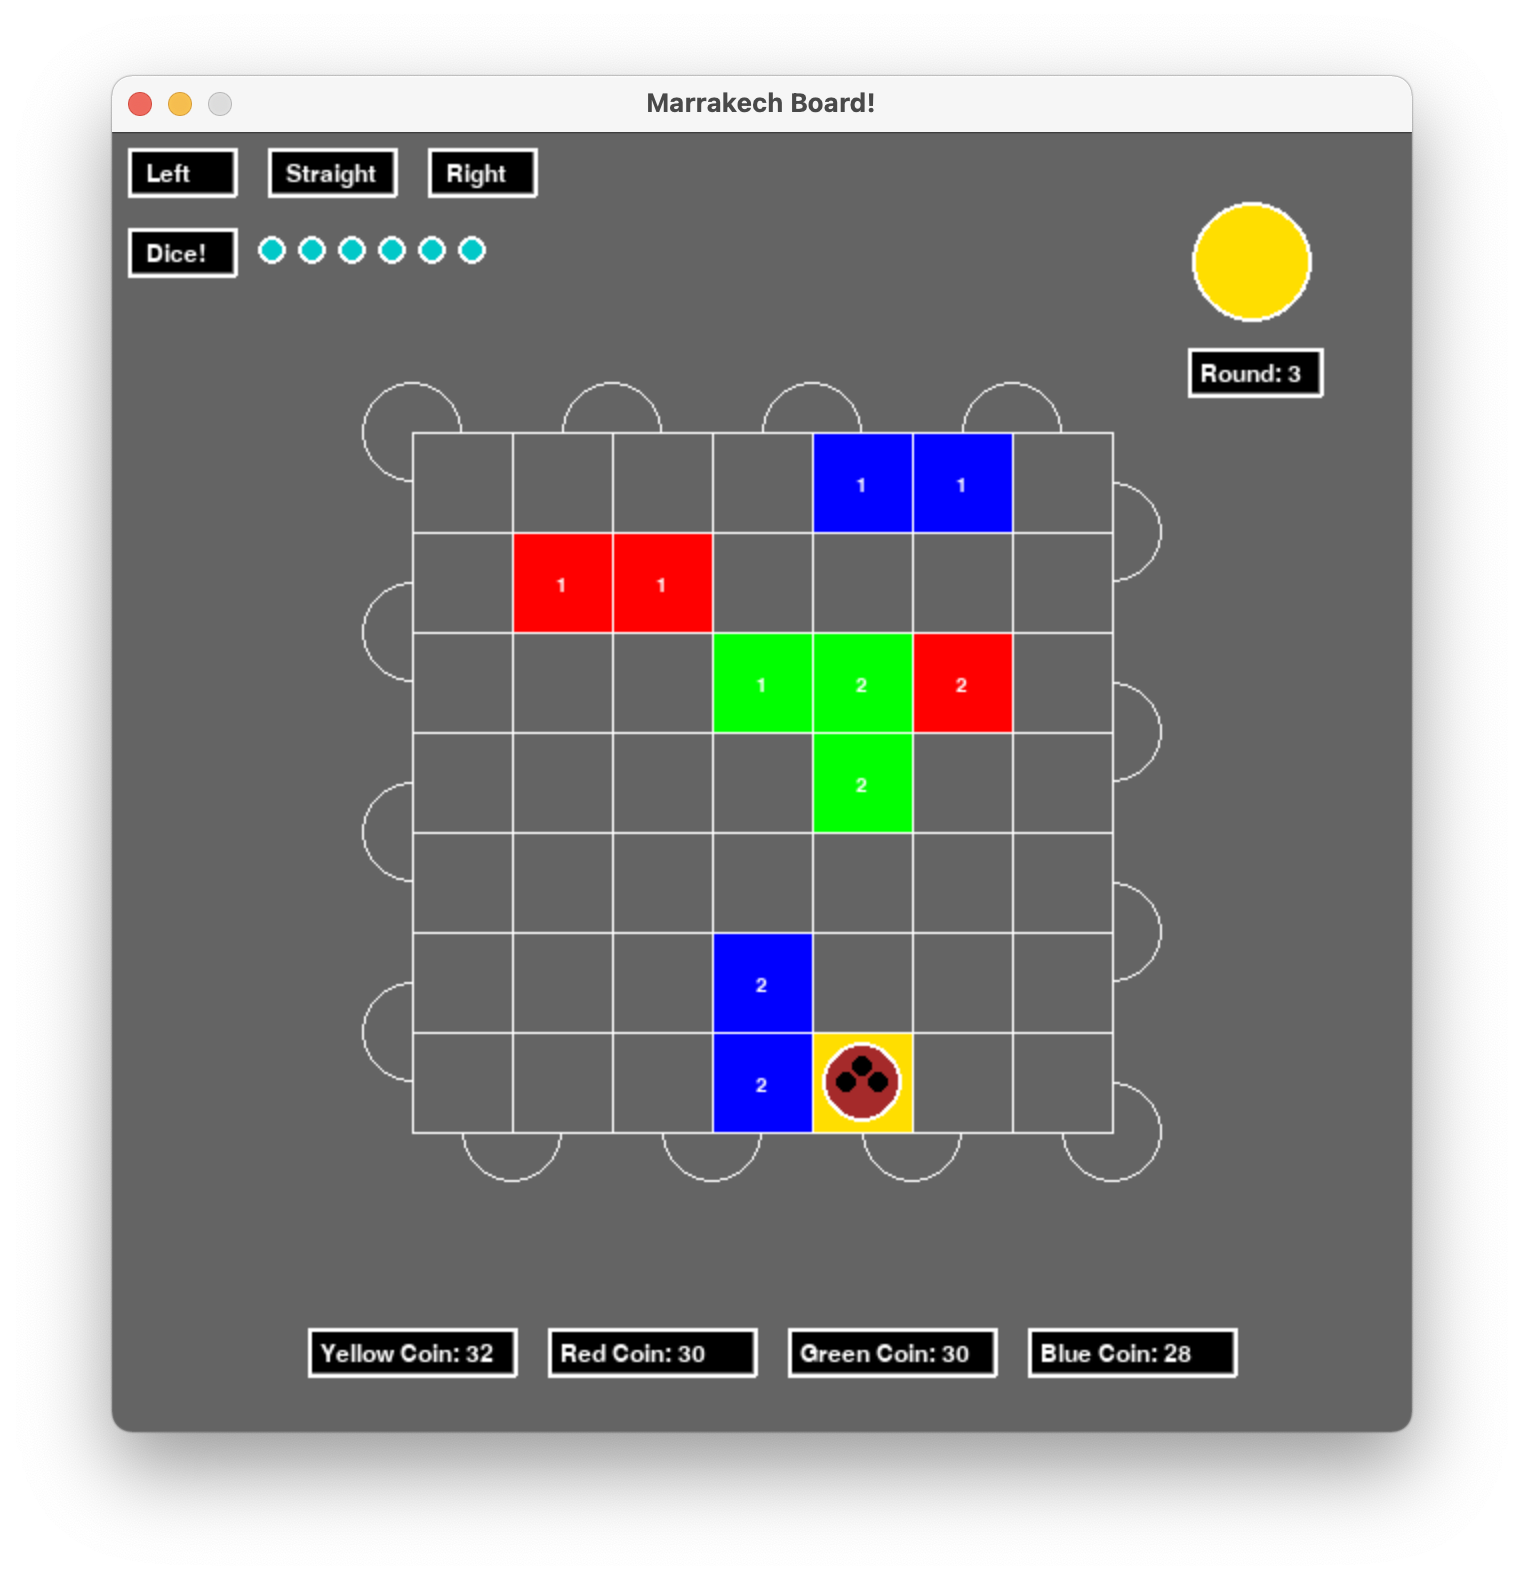
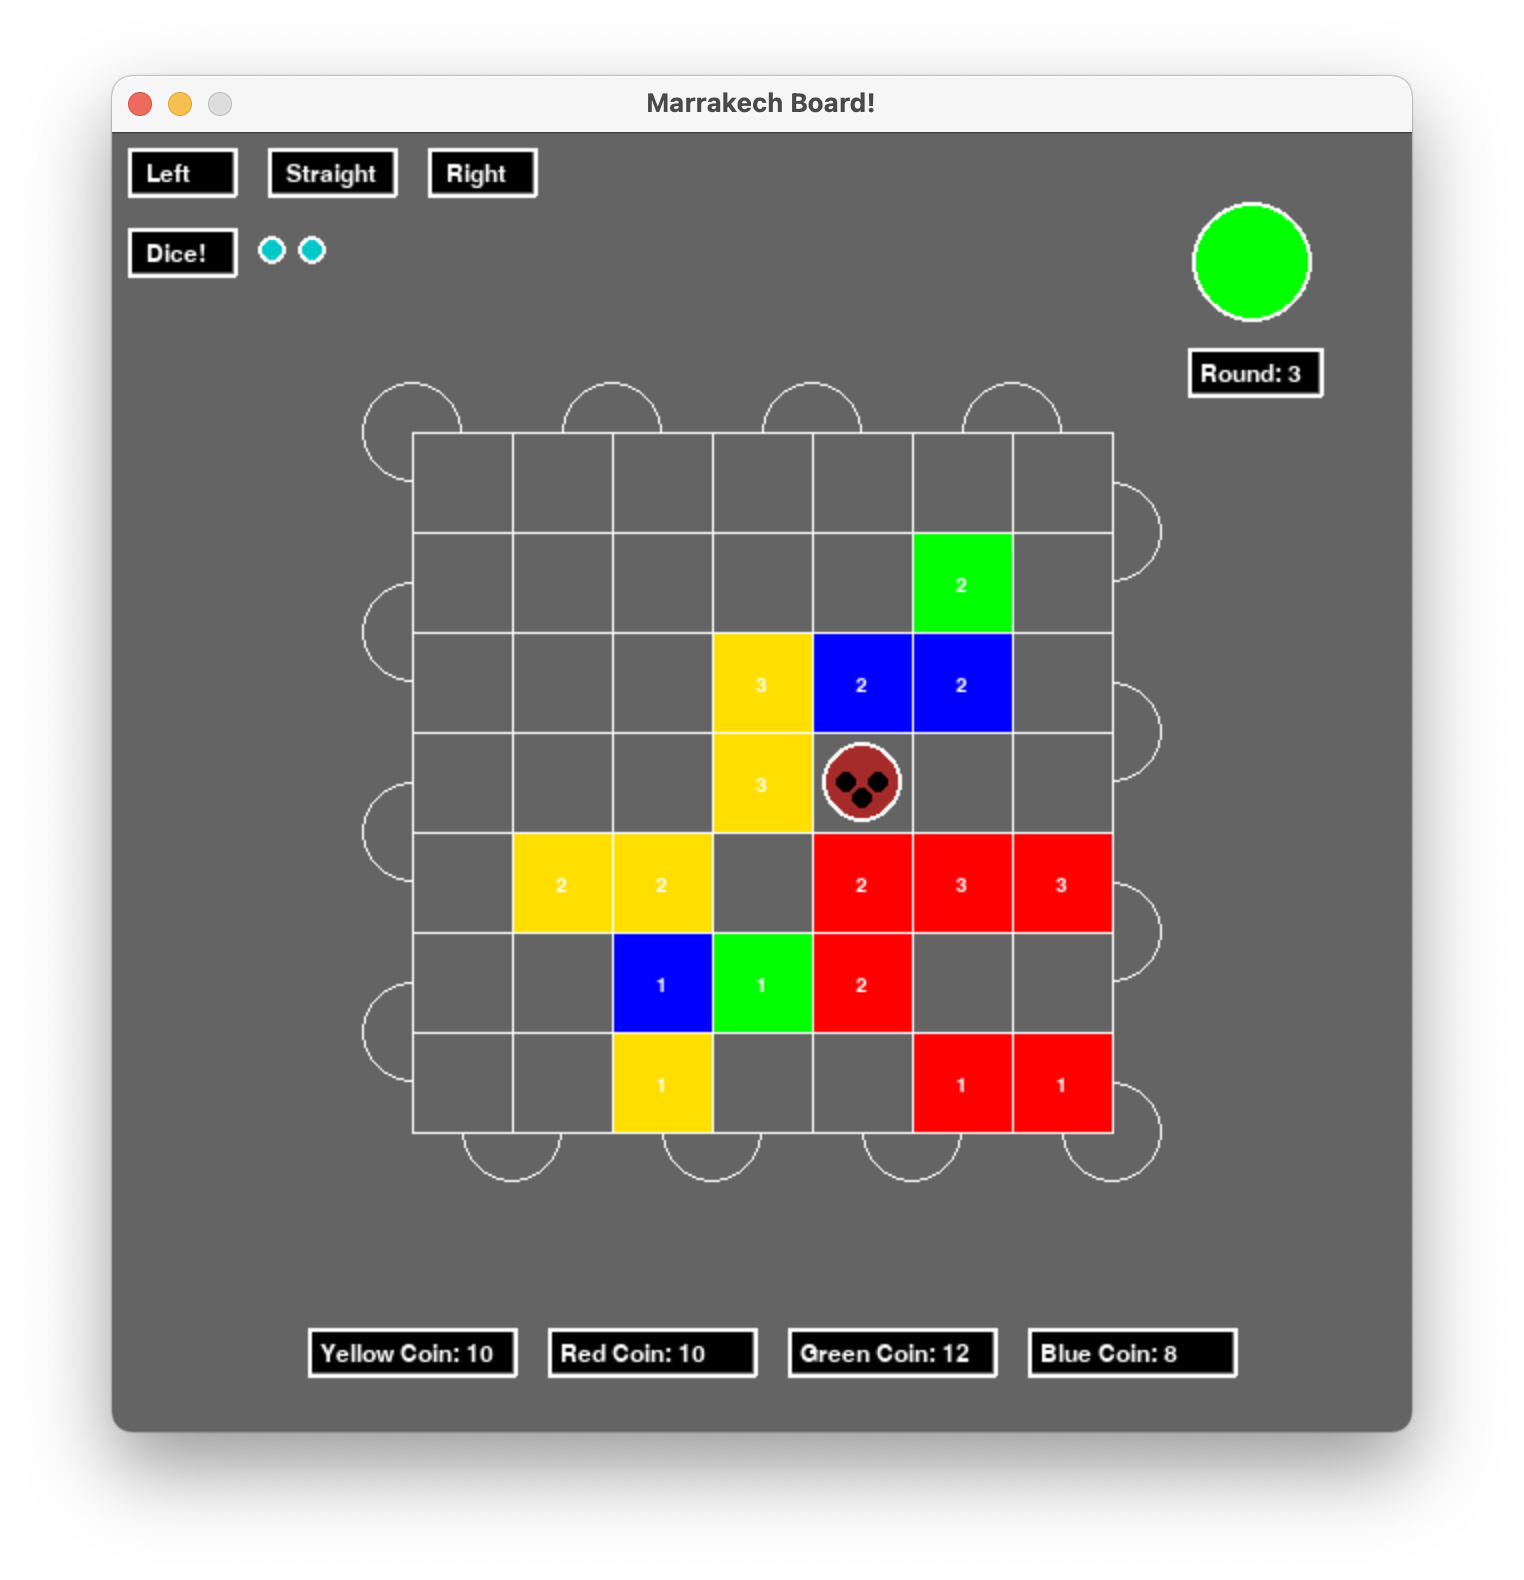
Update rules

diff --git a/main.py b/main.py
@@ -289,7 +289,7 @@ class Carpet:
 
 
 class Player:
-    def __init__(self, color_carpet, number_carpets, rgb, coin=30):
+    def __init__(self, color_carpet, number_carpets, rgb, coin=10):
         self.color = color_carpet
         self.playerCarpet = [Carpet(color_carpet, i) for i in range(number_carpets)]
         self.coin = coin
@@ -508,7 +508,7 @@ while gameBoard.get_round() < numberCarpets:
     if pygame.mouse.get_pressed()[0] is True and pressDice is True:
         if diceX < mousePosition[0] < diceX + 50:
             if diceY < mousePosition[1] < diceY + 20:
-                num = random.randrange(1, 7)
+                num = random.choice([1, 2, 2, 3, 3, 4])
                 myAssam.move(num)
                 pressDice = False
                 pressClick = True
